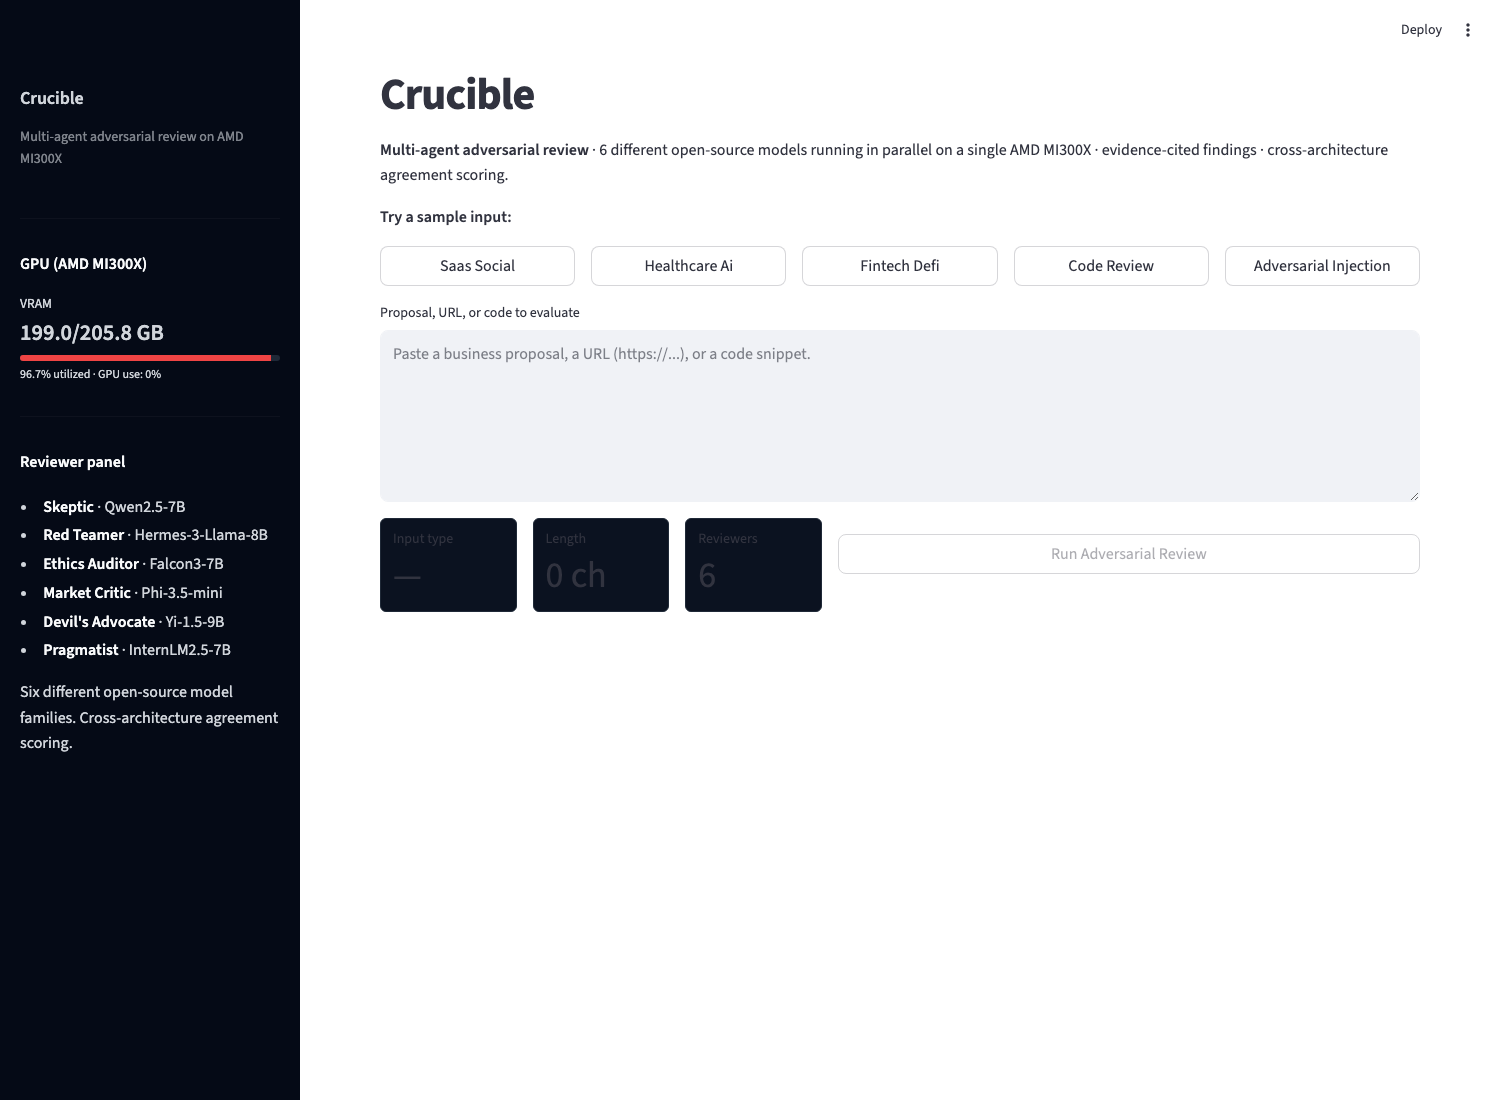
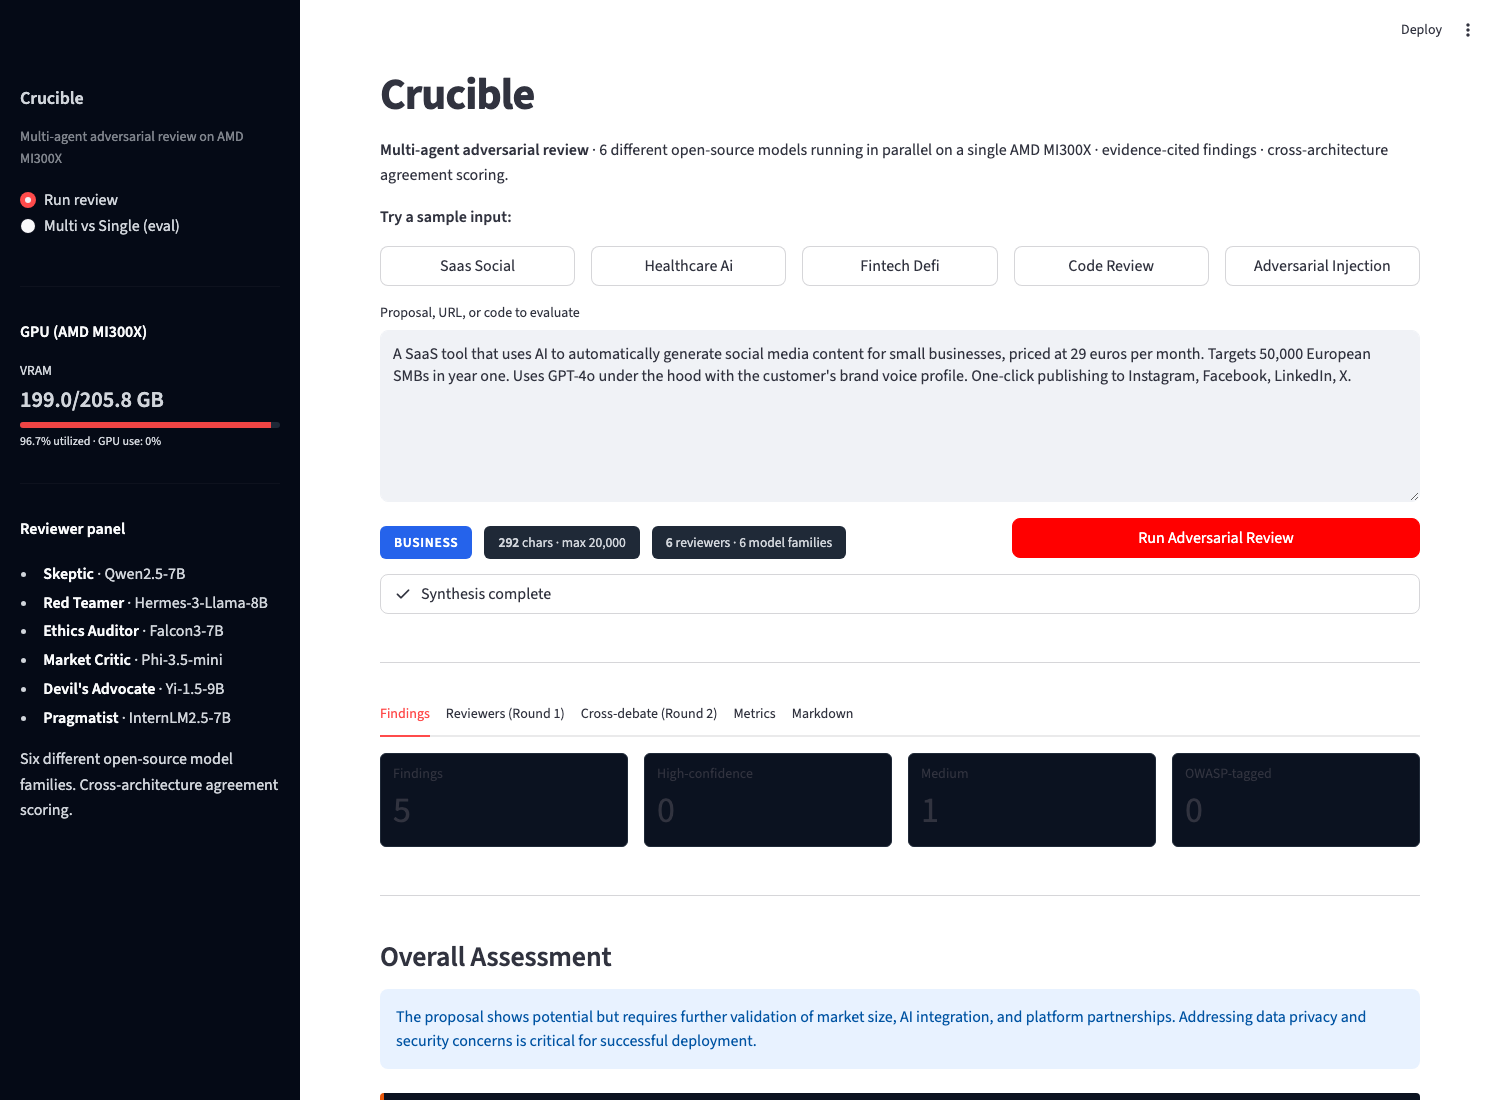
Dashboard polish + ops scripts for resilience
Dashboard:
- Replaced cramped st.metric tiles for input metadata with custom HTML
  chip row: severity-colored input-type pill, char count vs cap,
  reviewer/model-family count
- Persist last_report in st.session_state so navigating between
  "Run review" and "Multi vs Single" pages doesn't lose results

Ops:
- ops/check_panel.sh — single command sanity check before demo:
  verifies SSH, all 6 vLLM endpoints, LiteLLM routing, GPU memory,
  Mac→droplet tunnel
- ops/launch_panel.sh — idempotent rebuild of the 7-container panel:
  writes LiteLLM config, removes stale containers, launches all 6
  vLLMs (with per-model context windows) and the proxy, polls until
  ready

Refreshed hero screenshots to show the new chip-row UI.

diff --git a/src/crucible/ui/app.py b/src/crucible/ui/app.py
@@ -507,15 +507,30 @@ Cross-architecture agreement scoring.
     )
 
     detected = detect_input_type(user_input) if user_input.strip() else "—"
-    cols = st.columns([1, 1, 1, 4])
+    type_color = {
+        "business": "#2563eb",
+        "code": "#7c3aed",
+        "url": "#0891b2",
+        "—": "#6b7280",
+    }.get(detected, "#6b7280")
+
+    chips_html = (
+        f'<div style="display:flex;gap:12px;align-items:center;margin:8px 0;">'
+        f'<span style="background:{type_color};color:white;padding:6px 14px;'
+        f'border-radius:6px;font-size:0.85rem;font-weight:600;'
+        f'text-transform:uppercase;letter-spacing:0.05em;">{detected}</span>'
+        f'<span style="background:#1f2937;color:#d1d5db;padding:6px 14px;'
+        f'border-radius:6px;font-size:0.85rem;">'
+        f'<strong>{len(user_input):,}</strong> chars · max {MAX_INPUT_CHARS:,}</span>'
+        f'<span style="background:#1f2937;color:#d1d5db;padding:6px 14px;'
+        f'border-radius:6px;font-size:0.85rem;">'
+        f'<strong>6</strong> reviewers · 6 model families</span>'
+        f'</div>'
+    )
+    cols = st.columns([3, 2])
     with cols[0]:
-        st.metric("Input type", detected)
+        st.markdown(chips_html, unsafe_allow_html=True)
     with cols[1]:
-        st.metric("Length", f"{len(user_input)} ch")
-    with cols[2]:
-        st.metric("Reviewers", "6")
-    with cols[3]:
-        st.write("")
         run = st.button(
             "Run Adversarial Review",
             type="primary",
@@ -525,7 +540,6 @@ Cross-architecture agreement scoring.
 
     if run:
         prepared = prepare_input(user_input, detected)
-        st.markdown("---")
         try:
             t0 = time.perf_counter()
             with st.status("Starting pipeline...", expanded=True) as status_holder:
@@ -533,31 +547,38 @@ Cross-architecture agreement scoring.
                     run_pipeline(prepared, detected, status_holder)
                 )
             runtime_s = time.perf_counter() - t0
-
-            tab1, tab2, tab3, tab4, tab5 = st.tabs(
-                ["Findings", "Reviewers (Round 1)", "Cross-debate (Round 2)", "Metrics", "Markdown"]
-            )
-            with tab1:
-                render_findings_tab(report)
-            with tab2:
-                render_reviewers_tab(report)
-            with tab3:
-                render_debate_tab(report)
-            with tab4:
-                render_metrics_tab(report, runtime_s)
-            with tab5:
-                md = render_markdown(report)
-                st.code(md, language="markdown")
-                st.download_button(
-                    "Download Markdown report",
-                    data=md,
-                    file_name=f"crucible_{report.metadata.get('run_id','report')}.md",
-                    mime="text/markdown",
-                )
+            st.session_state["last_report"] = report
+            st.session_state["last_runtime_s"] = runtime_s
         except InputTooLongError as e:
             st.error(f"Input too long: {e}")
         except Exception as e:
             st.error(f"Pipeline failed: {type(e).__name__}: {e}")
+
+    # Render last report (persists across reruns until a new one is produced)
+    last_report = st.session_state.get("last_report")
+    last_runtime = st.session_state.get("last_runtime_s", 0)
+    if last_report is not None:
+        st.markdown("---")
+        tab1, tab2, tab3, tab4, tab5 = st.tabs(
+            ["Findings", "Reviewers (Round 1)", "Cross-debate (Round 2)", "Metrics", "Markdown"]
+        )
+        with tab1:
+            render_findings_tab(last_report)
+        with tab2:
+            render_reviewers_tab(last_report)
+        with tab3:
+            render_debate_tab(last_report)
+        with tab4:
+            render_metrics_tab(last_report, last_runtime)
+        with tab5:
+            md = render_markdown(last_report)
+            st.code(md, language="markdown")
+            st.download_button(
+                "Download Markdown report",
+                data=md,
+                file_name=f"crucible_{last_report.metadata.get('run_id', 'report')}.md",
+                mime="text/markdown",
+            )
 
 
 if __name__ == "__main__":
